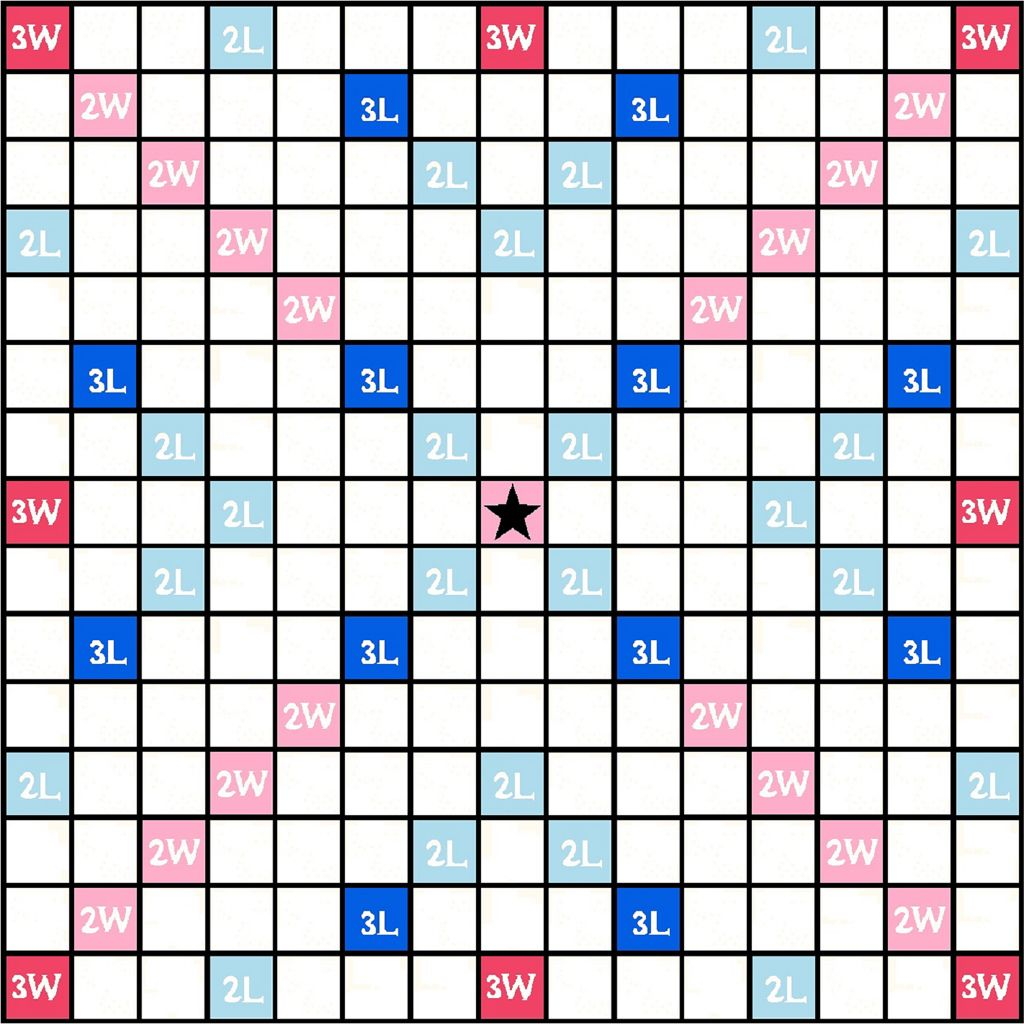
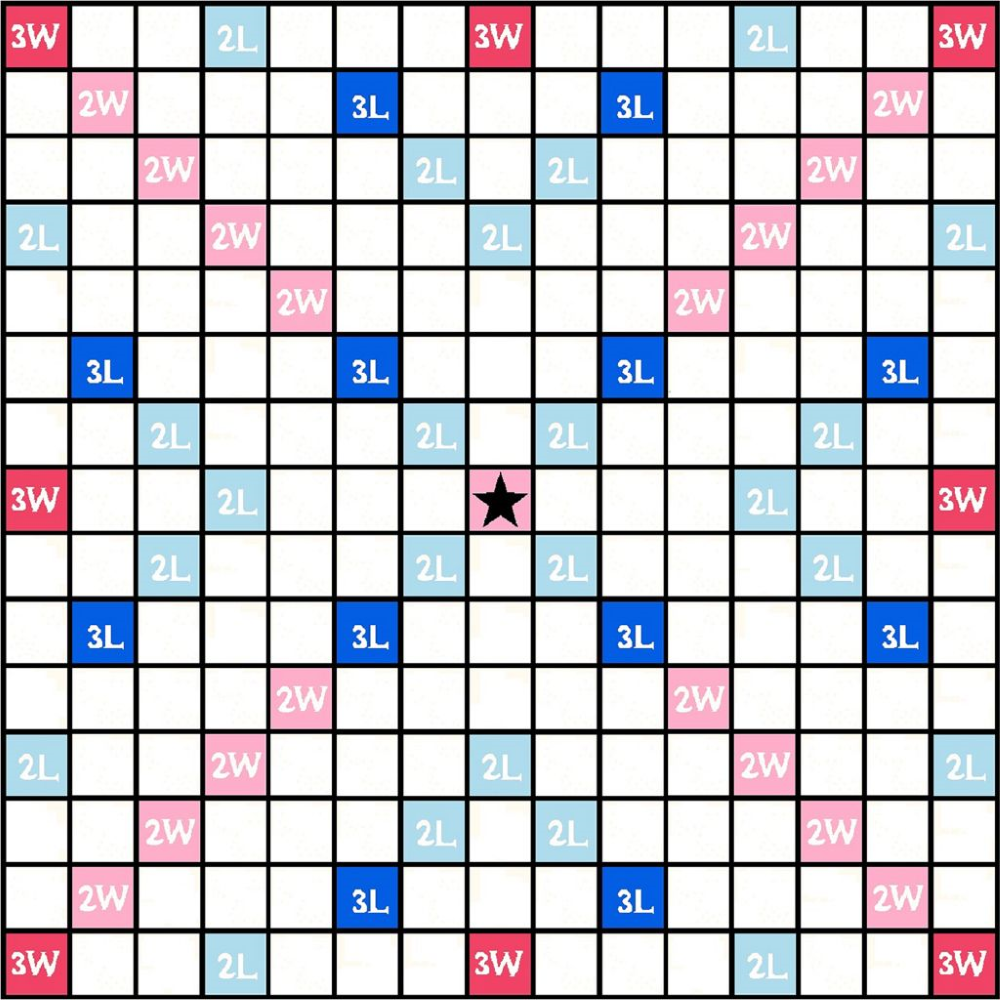
Added Board Displaying

diff --git a/src/UI.java b/src/UI.java
@@ -1,9 +1,12 @@
 import javafx.application.Application;
+import javafx.scene.Group;
 import javafx.scene.Scene;
 import javafx.scene.control.Button;
 import javafx.scene.control.Label;
 import javafx.scene.image.Image;
+import javafx.scene.layout.GridPane;
 import javafx.scene.layout.StackPane;
+import javafx.scene.layout.VBox;
 import javafx.stage.Stage;
 import javafx.scene.image.*;
 import java.awt.Desktop;
@@ -21,21 +24,27 @@ public class UI extends Application {
     }
 
     @Override
-    public void start(Stage primaryStage) {
-        Label lab = new Label("Hello");
-        Scene scene = new Scene(lab);
-        primaryStage.setScene(scene);
-        primaryStage.show();
-        smoothJazz();
+    public void start(Stage primaryStage) throws FileNotFoundException {
+        Stage boardStage = new Stage();
+        board(boardStage);
     }
 
     public void board(Stage boardStage) throws FileNotFoundException {
+        boardStage.setHeight(1039);
+        boardStage.setWidth(1017);
+        boardStage.setTitle("Scrabble");
         FileInputStream inputStream = new FileInputStream("assets\\board.png");
         Image board = new Image(inputStream);
+        ImageView boardPNG = new ImageView(board);
+        boardPNG.setX(0);
+        boardPNG.setY(0);
+        Group root = new Group(boardPNG);
+        Scene boardLayout = new Scene(root, 500, 500);
+        boardStage.setScene(boardLayout);
+        boardStage.show();
     }
 
-    public void smoothJazz()
-    {
+    public void smoothJazz() {
         try {
             Desktop desktop = java.awt.Desktop.getDesktop();
             URI oURL = new URI("https://www.youtube.com/watch?v=Tv5QRmG9ST0&list=PL7nML7u-x2dyqPDhm0g8eMlCfsrEvk89H");
